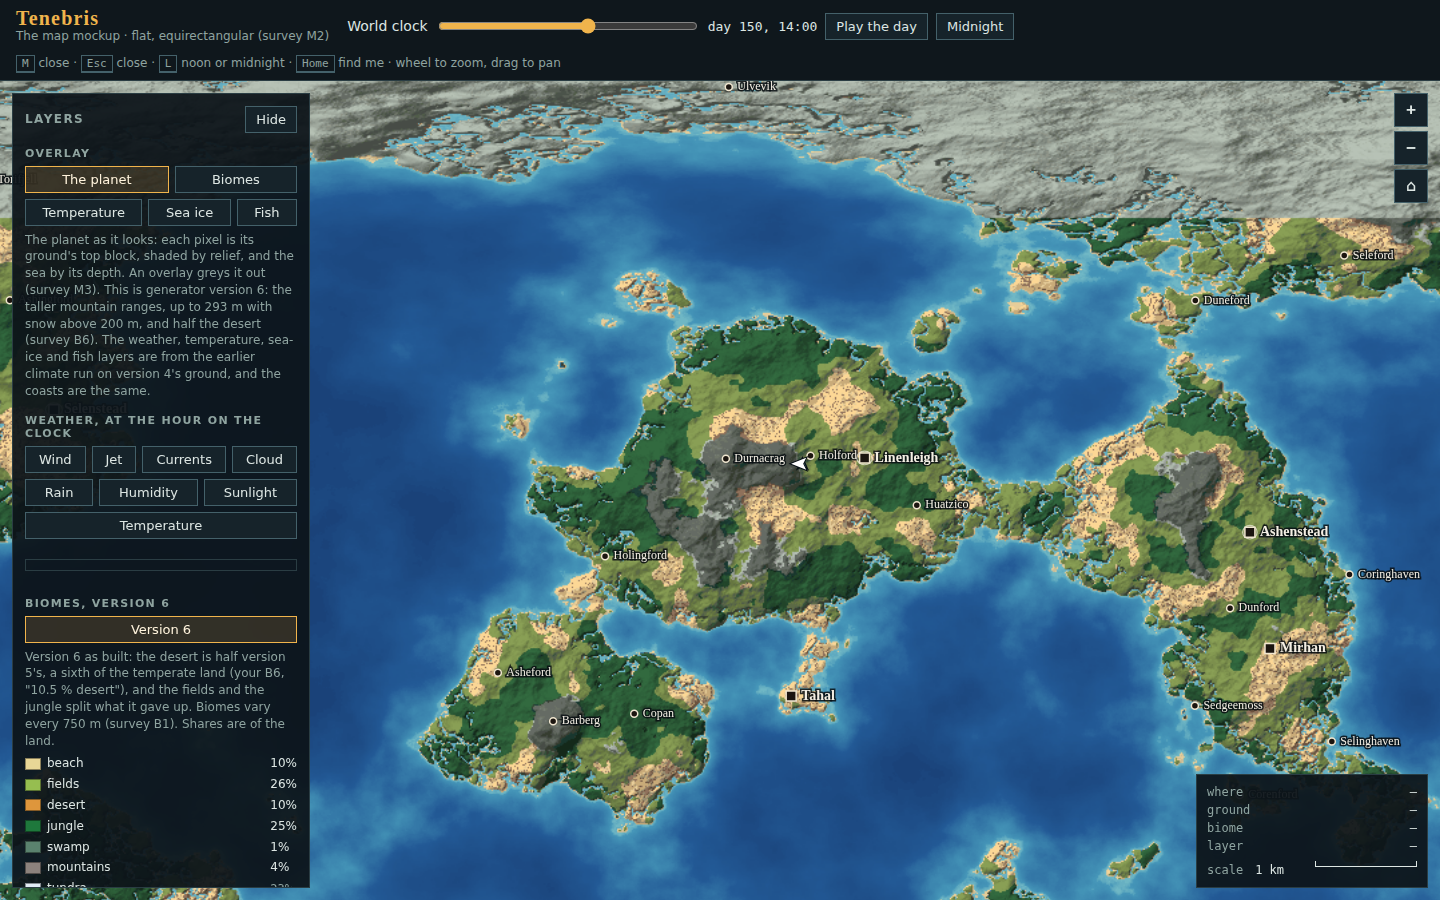
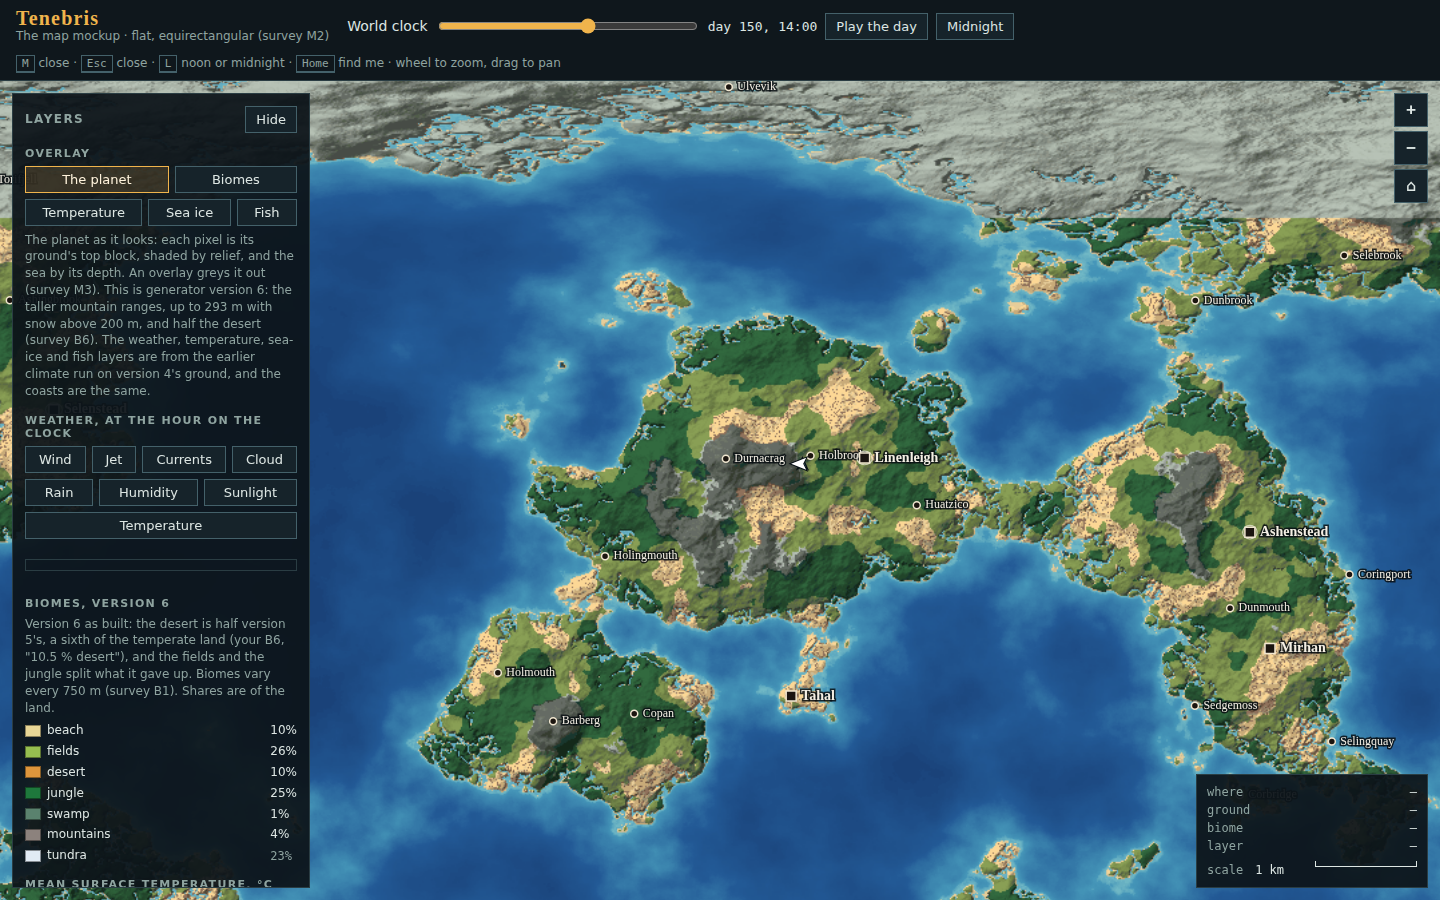
City sites: river villages and harbours draw from lists of endings
All 20 villages stand by a river, so the one river ending named every one
of them "-ford", and every harbour "-haven". A people now has lists of river
and harbour endings to draw from, and a vowel two parts meet on is written
once ("Sedgemoss", not "Sedgeemoss"). The 55 sites stand where they did;
only names change, and no world stores a list yet (design finding 5).

Claude-Session: https://claude.ai/code/session_01SztpvFkncDFbmhJsds55PW

diff --git a/crates/pbd-core/src/sites.rs b/crates/pbd-core/src/sites.rs
@@ -184,12 +184,14 @@ pub struct People {
     pub onsets: Vec<String>,
     pub middles: Vec<String>,
     pub endings: Vec<String>,
-    /// A harbour's ending in place of the drawn one ("haven").
+    /// A harbour's endings, drawn from in place of `endings` ("haven",
+    /// "port"). Empty: a harbour draws from `endings`.
     #[serde(default)]
-    pub harbour_ending: Option<String>,
-    /// A village on a river's ending in place of the drawn one ("ford").
+    pub harbour_endings: Vec<String>,
+    /// A village on a river's endings, drawn from in place of `endings`
+    /// ("ford", "bridge"). Empty: it draws from `endings`.
     #[serde(default)]
-    pub river_ending: Option<String>,
+    pub river_endings: Vec<String>,
 }
 
 /// A site the owner placed by hand (decision 5).
@@ -1016,14 +1018,18 @@ fn name_for(sites: &SitesConfig, seed: u64, site: &Site, taken: &mut BTreeSet<St
         let i = (hash01(&[seed, u64::from(site.id), k, part]) * list.len() as f32) as usize;
         list[i.min(list.len() - 1)].clone()
     };
+    let endings = match site.kind {
+        SiteKind::Harbour if !people.harbour_endings.is_empty() => &people.harbour_endings,
+        SiteKind::Village if site.river && !people.river_endings.is_empty() => {
+            &people.river_endings
+        }
+        _ => &people.endings,
+    };
     for k in 0..64u64 {
-        let mut name = pick(&people.onsets, k, 1) + &pick(&people.middles, k, 2);
-        let ending = match (site.kind, &people.harbour_ending, &people.river_ending) {
-            (SiteKind::Harbour, Some(h), _) => h.clone(),
-            (SiteKind::Village, _, Some(f)) if site.river => f.clone(),
-            _ => pick(&people.endings, k, 3),
-        };
-        name.push_str(&ending);
+        let name = join(
+            &join(&pick(&people.onsets, k, 1), &pick(&people.middles, k, 2)),
+            &pick(endings, k, 3),
+        );
         let mut letters = name.chars();
         let name: String = match letters.next() {
             Some(first) => first
@@ -1039,6 +1045,18 @@ fn name_for(sites: &SitesConfig, seed: u64, site: &Site, taken: &mut BTreeSet<St
     let fallback = format!("Site {}", site.id);
     taken.insert(fallback.clone());
     fallback
+}
+
+/// Two parts of a name, with a vowel they meet on written once ("Sedge" and
+/// "e" make "Sedge", "Mire" and "ewade" make "Mirewade"; finding 5).
+fn join(a: &str, b: &str) -> String {
+    let meet = a.chars().last().zip(b.chars().next());
+    match meet {
+        Some((x, y)) if x.eq_ignore_ascii_case(&y) && "aeiouy".contains(x.to_ascii_lowercase()) => {
+            format!("{a}{}", &b[y.len_utf8()..])
+        }
+        _ => format!("{a}{b}"),
+    }
 }
 
 /// The whole list: [`candidates`] on `threads` threads, then [`select`].

diff --git a/crates/pbd-core/src/sites/tests.rs b/crates/pbd-core/src/sites/tests.rs
@@ -216,6 +216,48 @@ fn names_are_unique_and_stable() {
     assert_eq!(names(&a), names(&b));
 }
 
+/// Finding 5: river villages and harbours draw their endings from lists, so
+/// they do not all end alike, and a vowel two parts meet on is written once.
+#[test]
+fn river_villages_and_harbours_do_not_all_end_alike() {
+    let cfg = shipped();
+    let ending_of = |name: &str, endings: &[String]| {
+        endings
+            .iter()
+            .find(|e| name.to_lowercase().ends_with(e.as_str()))
+            .cloned()
+    };
+    for (kind, river) in [(SiteKind::Village, true), (SiteKind::Harbour, false)] {
+        let people = cfg.people(kind);
+        let endings = if kind == SiteKind::Harbour {
+            &people.harbour_endings
+        } else {
+            &people.river_endings
+        };
+        let sites: Vec<&Site> = planet()
+            .sites
+            .iter()
+            .filter(|s| s.kind == kind && (!river || s.river))
+            .collect();
+        assert!(sites.len() >= 4, "{kind:?}: only {} sites", sites.len());
+        let used: BTreeSet<String> = sites
+            .iter()
+            .map(|s| {
+                ending_of(&s.name, endings)
+                    .unwrap_or_else(|| panic!("{} ends in none of {endings:?}", s.name))
+            })
+            .collect();
+        assert!(
+            used.len() >= 3,
+            "{kind:?}: every name ends in one of {used:?}"
+        );
+    }
+    assert_eq!(join("Sedge", "e"), "Sedge");
+    assert_eq!(join("Mire", "ewade"), "Mirewade");
+    assert_eq!(join("Hol", "leigh"), "Holleigh");
+    assert_eq!(join("Kel", "a"), "Kela");
+}
+
 /// "Pinning a town" and "A pinned name": the town stands where it was put
 /// with the name it was given, it is the capital, no generated site takes
 /// its name, and none stands within its spacing.

diff --git a/openspec/changes/city-sites/design.md b/openspec/changes/city-sites/design.md
@@ -124,8 +124,11 @@ kept.**
   - the swamp people;
   - the mountain people (survey T12).
 
-  Each has onsets, nuclei, codas and kind-specific suffixes (a "-ford" for a
-  village on a river, a "-haven" for a harbour).
+  Each has onsets, nuclei, codas and kind-specific endings: a village on a
+  river draws from its river endings ("-ford", "-bridge"), a harbour from its
+  harbour endings ("-haven", "-port"). Where two parts meet on the same
+  vowel, the vowel is written once ("Sedge" and "e" make "Sedge-", not
+  "Sedgee-"). Both are finding 5 of the Built section.
 - A name is drawn from a hash stream of the seed and the id. A collision takes
   the next draw from the same stream, resolved in list order.
 - A pinned name is reserved first, so no generated site takes it.
@@ -239,7 +242,7 @@ The owner, 2026-09-29: "commence 2b, lets get these damn cities up to play!"
 
   The design's risk of a slow fine check does not arise.
 - **The list:** 55 sites, every kind at its target.
-  - The small town near the spawn is Holford, a village on a river, 133 m
+  - The small town near the spawn is Holbrook (first drawn as Holford, finding 5), a village on a river, 133 m
     from the game's default spawn direction.
   - The capital is Ashingstead, a walled town 10.3 km away, on another land
     mass.
@@ -276,6 +279,19 @@ The owner, 2026-09-29: "commence 2b, lets get these damn cities up to play!"
      towns 2,500 m apart, that would have kept every village 2.5 km from
      every town, and cleared most of the fields.
    - The spec delta now says what is built.
+5. **Every village took the same ending.** The river bonus does what it is
+   for: all 20 villages and all 6 walled towns stand within 60 m of a river.
+   But the table gave a river village one ending, so all 20 were "-ford"
+   (Holford, Bramford, Corford ...). Every harbour was "-haven" the same
+   way. And "Sedge" with the middle "e" wrote "Sedgeemoss".
+   - A people now has a list of river endings and a list of harbour endings,
+     and a name draws from the list as it draws its other parts. The fields
+     people's are "ford", "bridge", "brook" and "mouth", and "haven",
+     "port", "quay" and "strand".
+   - A doubled vowel where two parts meet is written once.
+   - Only the names change: the same 55 sites stand in the same places. No
+     world stores a list yet (group 3), so no saved name moves; the sites
+     version stays 1.
 
 **The mockup (tasks 1.2 and 1.3).**
 - `docs/mockups/world-map.html` draws the core's list, with a footprint

diff --git a/openspec/changes/city-sites/tasks.md b/openspec/changes/city-sites/tasks.md
@@ -16,8 +16,8 @@ the biome.
 
 - [x] 2.1 (`sites::tests::a_bad_config_is_refused_by_name`.) `assets/config/sites.ron` and its validated struct: per-kind radius, flatness, spacing and count in metres, the name tables, and the overrides. Verify: tests that a zero spacing, an unknown kind and a pin at sea are each refused with the field named.
 - [x] 2.2 (`sites::tests`: one thread and many, fewer towns, flat dry ground with the harbour, cliff and cave rules, no pentagons, every kind in its biome, spacing, pins and strikes.) `pbd_core::sites::generate(cfg, terrain, overrides)` with the screen, score, greedy pass and full check. Verify: the spec's tests (identical on one thread and many; fewer towns keep the same sites; flat, dry ground; no pentagons; a harbour on the water; a cliff village climbs; a cave town has rock over it; the kind matches the biome; every kind occurs; spacing on every pair).
-- [x] 2.2a (`sites::tests::a_small_town_is_near_the_spawn_and_the_capital_is_elsewhere`: Holford, 133 m; Ashingstead on another land mass.) The small town near the spawn and the capital elsewhere (survey C2, C3). Verify: a test on the shipped seed that a village or small walled town is within 500 m of the spawn and the capital is on another land mass.
-- [x] 2.3 (`sites::tests::names_are_unique_and_stable`, `a_pinned_town_stands_where_it_was_put`.) Names from the tables, six peoples with the mountain people's (survey T12). Verify: tests for unique names on the shipped seed, a pinned name kept and reserved, and a name unchanged across two runs.
+- [x] 2.2a (`sites::tests::a_small_town_is_near_the_spawn_and_the_capital_is_elsewhere`: Holbrook, 133 m; Ashingstead on another land mass.) The small town near the spawn and the capital elsewhere (survey C2, C3). Verify: a test on the shipped seed that a village or small walled town is within 500 m of the spawn and the capital is on another land mass.
+- [x] 2.3 (`sites::tests::names_are_unique_and_stable`, `a_pinned_town_stands_where_it_was_put`, `river_villages_and_harbours_do_not_all_end_alike`.) Names from the tables, six peoples with the mountain people's (survey T12). Verify: tests for unique names on the shipped seed, a pinned name kept and reserved, and a name unchanged across two runs.
 - [x] 2.4 (The instrument calls `generate`: one implementation, so the lists cannot differ.) The same list from the instrument and the core. Verify: the instrument calls `generate`, and its JSON matches the core test's list byte for byte.
 
 ## 3. The world keeps its list

diff --git a/docs/screenshots/city-sites/README.md b/docs/screenshots/city-sites/README.md
@@ -7,7 +7,7 @@ headless by `tools/mockup_sites_test.js` (Chromium, 1440 x 900, no GPU) from
 
 | file | what it shows |
 | --- | --- |
-| `mockup-world.png` | The spawn's continent and its neighbours at the map's opening zoom: 55 sites on the planet, squares for towns and circles for villages. Holford, the village near the spawn, and Linenleigh, a walled town, stand by the player's arrow. |
+| `mockup-world.png` | The spawn's continent and its neighbours at the map's opening zoom: 55 sites on the planet, squares for towns and circles for villages. Holbrook, the village near the spawn, and Linenleigh, a walled town, stand by the player's arrow. |
 | `mockup-close.png` | Ashingstead, the capital, at close zoom (50 m scale): its 75 m footprint outlined, on fields at the edge of a desert. The places list shows the capital first, then the home town. |
 | `mockup-edit.png` | The site editor after the test dragged Ashingstead east: its outline dashed in amber as edited, and the RON the editor writes, pinning it at its new place and striking its old id. |
 
